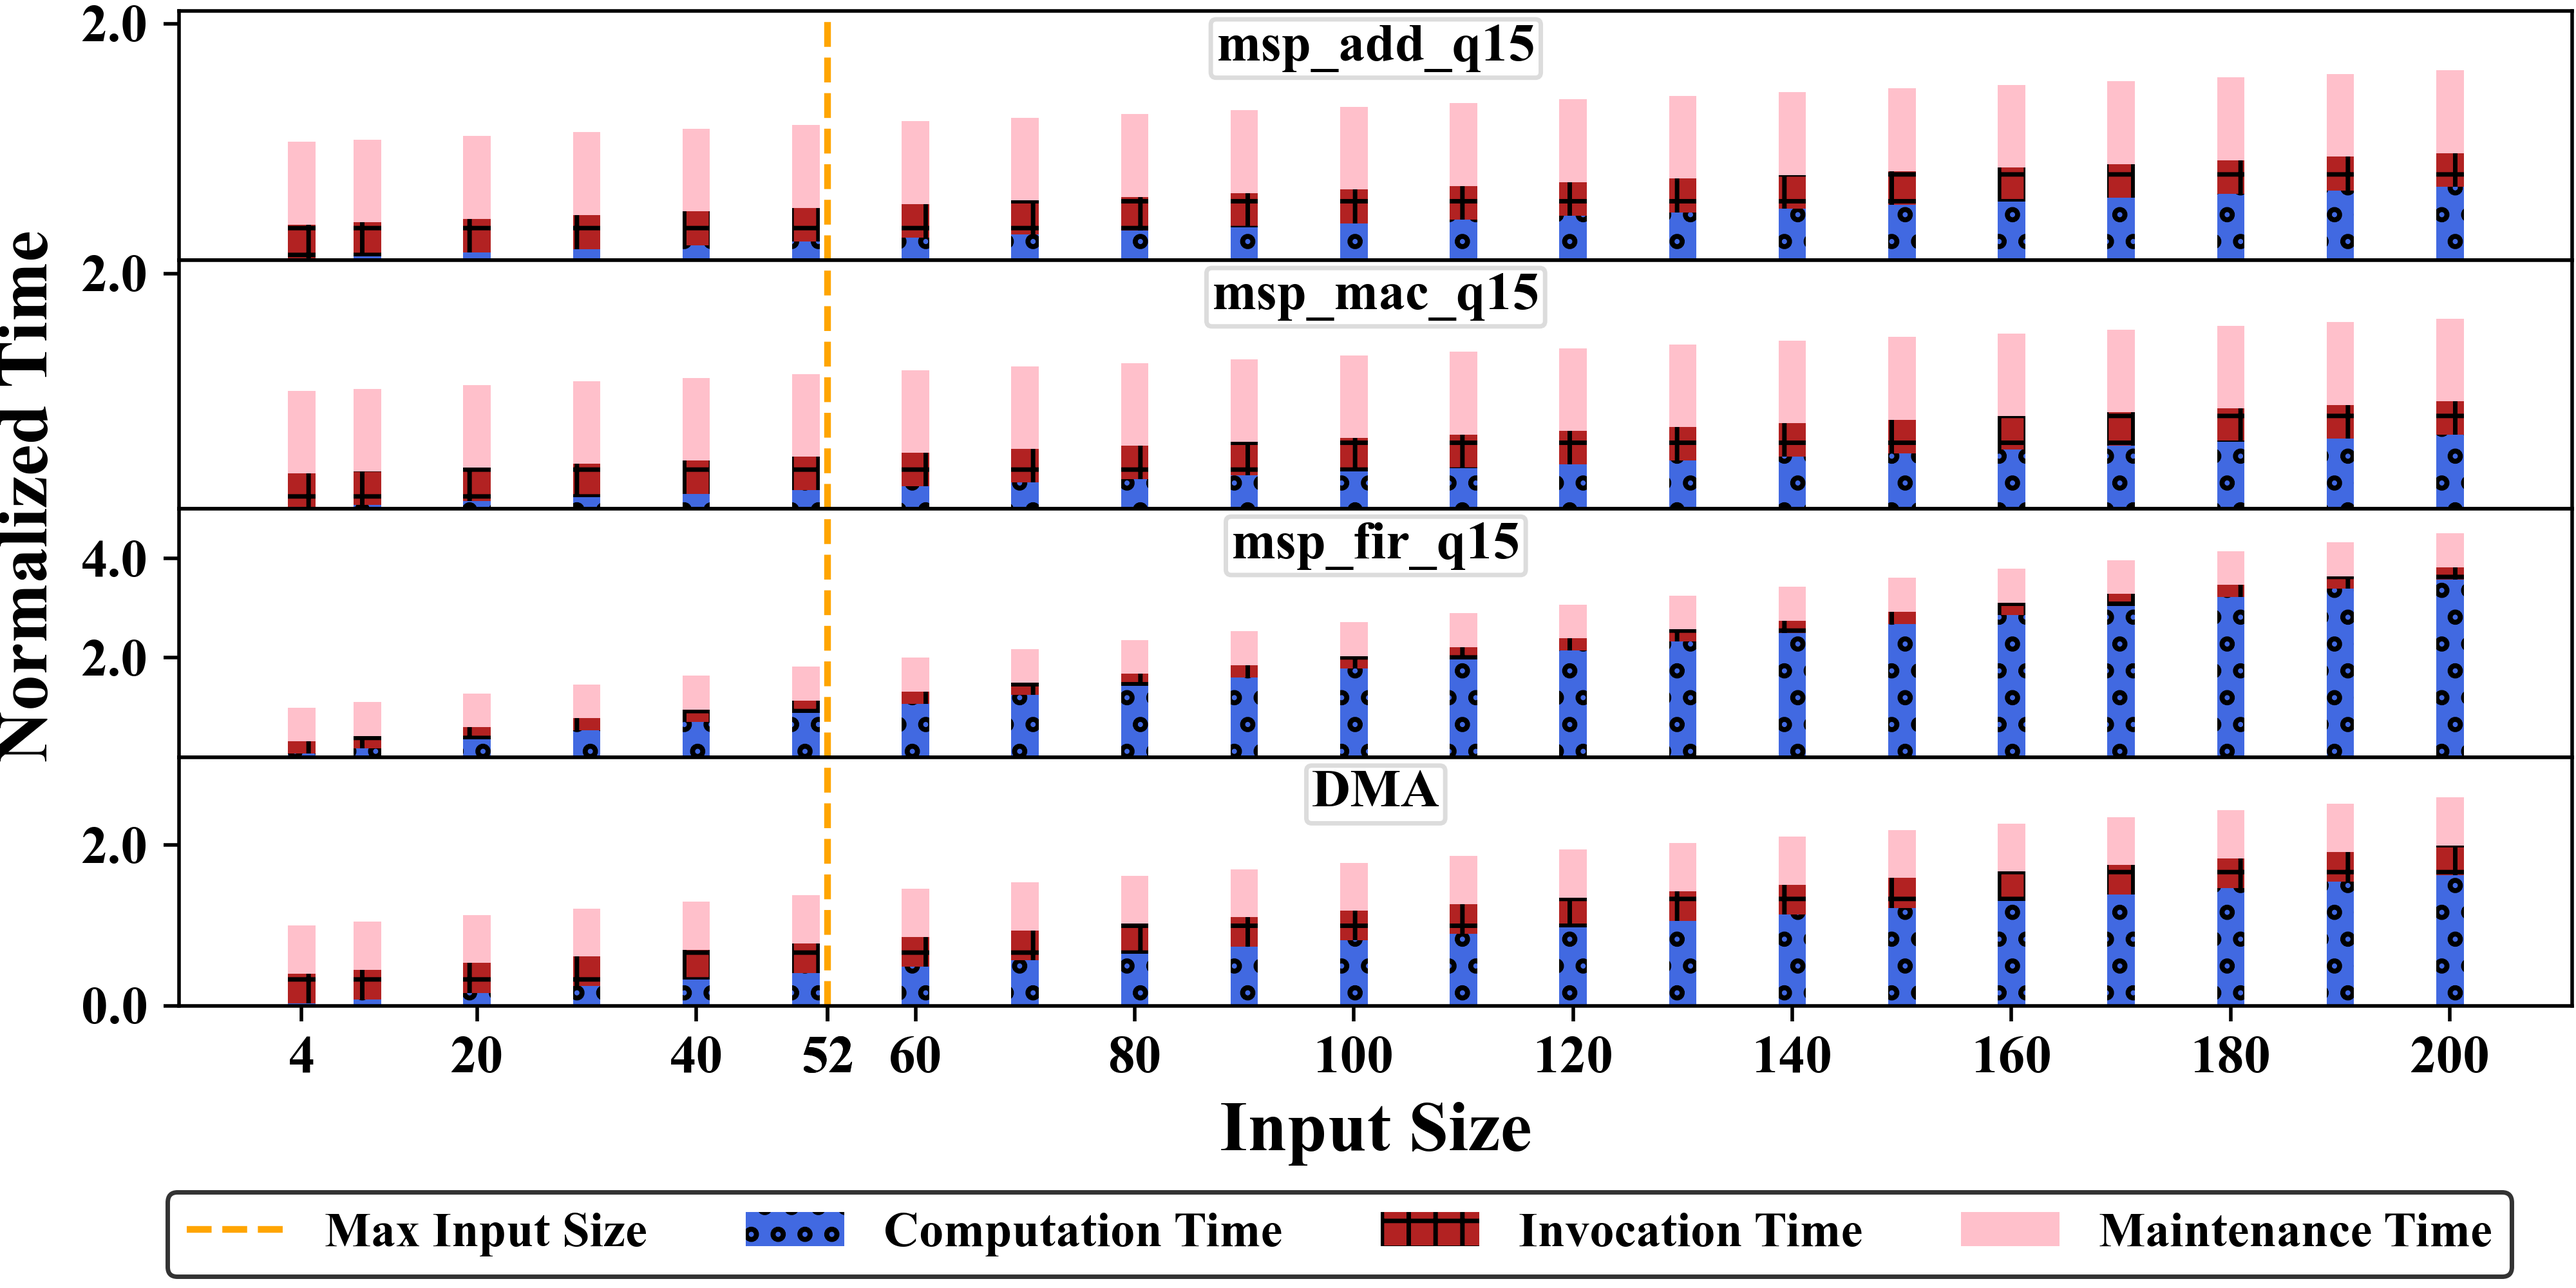
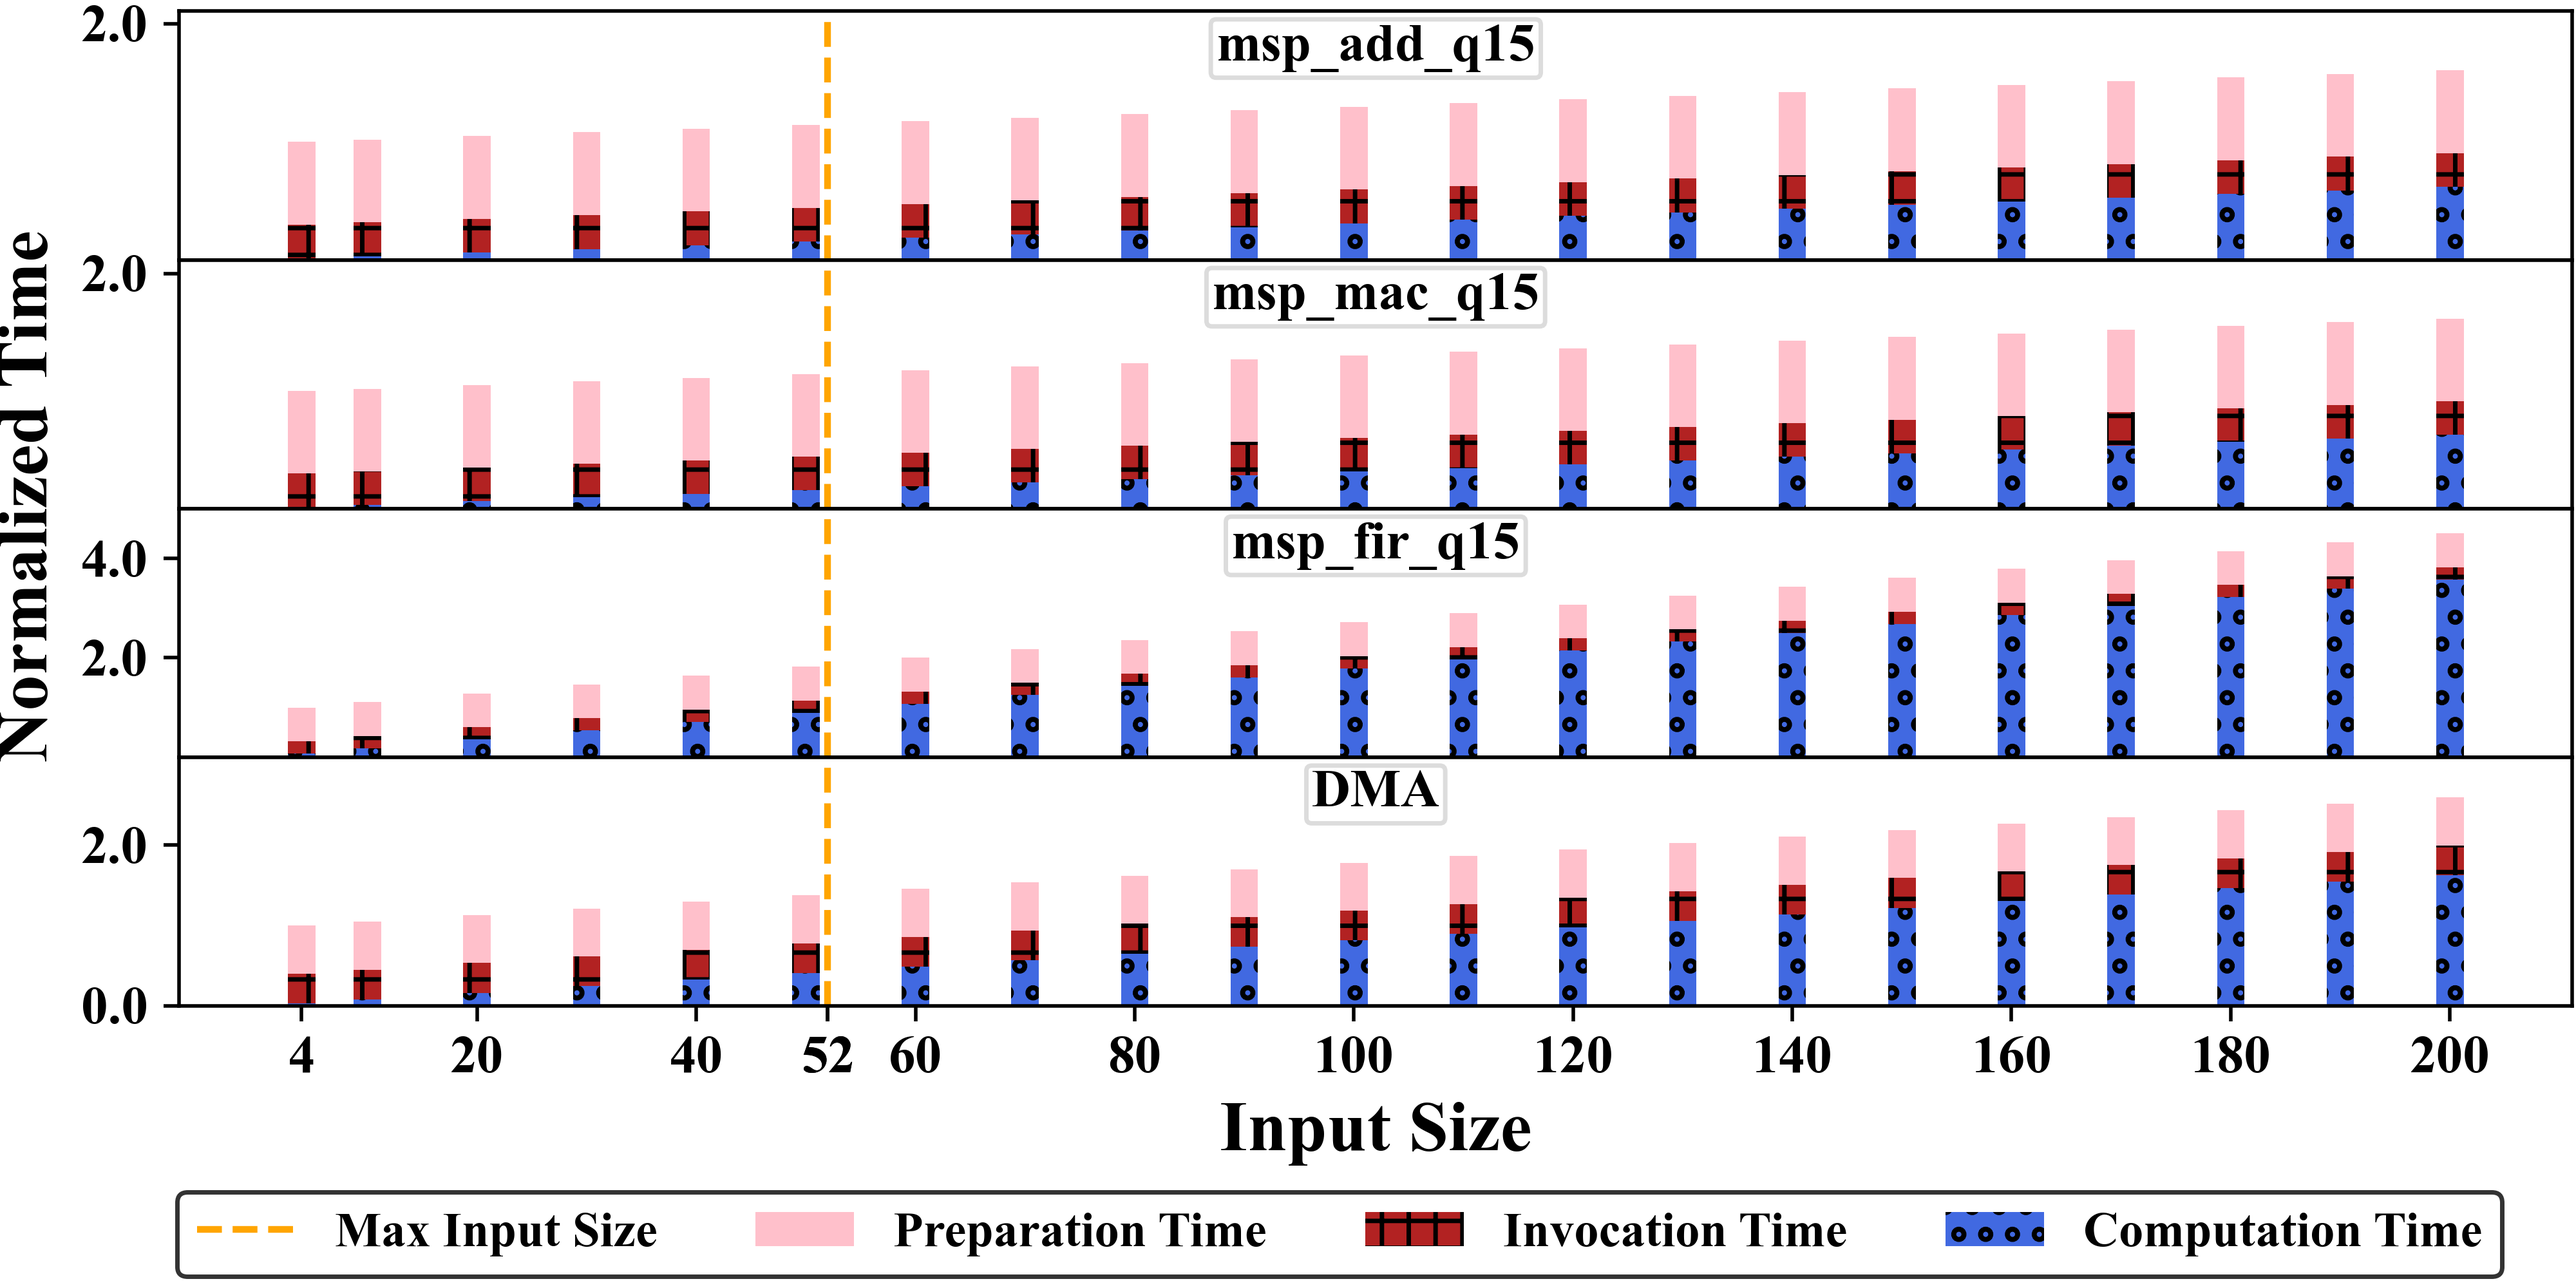
update figiure

diff --git a/apps/lea_op_bench/logs/plot.py b/apps/lea_op_bench/logs/plot.py
@@ -89,11 +89,11 @@ for i, (key, values) in enumerate(log_data.items()):
     if key == 'DMA':
         st_time = 'Invocation Time'
         core_label = 'Computation Time'
-        total_label = 'Maintenance Time'
+        total_label = 'Preparation Time'
 
-    axes[i].bar(sizes, real_norm_core_times, bar_width, label=core_label, color='royalblue', hatch='oo')
-    axes[i].bar(sizes, constant, bar_width, label=st_time, bottom=real_norm_core_times, color='firebrick', hatch='++')
-    axes[i].bar(sizes, norm_setup_times, bar_width, bottom=norm_core_times, label=total_label, color='pink')
+    bars1 = axes[i].bar(sizes, real_norm_core_times, bar_width, label=core_label, color='royalblue', hatch='oo')
+    bars2 = axes[i].bar(sizes, constant, bar_width, label=st_time, bottom=real_norm_core_times, color='firebrick', hatch='++')
+    bars3 = axes[i].bar(sizes, norm_setup_times, bar_width, bottom=norm_core_times, label=total_label, color='pink')
 
     axes[i].yaxis.set_major_formatter(ticker.FormatStrFormatter('%.1f'))
     axes[i].yaxis.set_major_locator(ticker.MaxNLocator(integer=True))
@@ -134,7 +134,7 @@ for i, (key, values) in enumerate(log_data.items()):
 
         yticks = axes[i].yaxis.get_major_ticks()
         disable_tick(yticks[0])
-        axes[i].axvline(x=52, color='orange', linestyle='--')
+        lines = axes[i].axvline(x=52, color='orange', linestyle='--')
     else:
         axes[i].set_xlabel('Input Size')
 
@@ -154,7 +154,7 @@ for i, (key, values) in enumerate(log_data.items()):
         current_ticks = axes[i].get_xticks()
         new_ticks = list(current_ticks) + [52]  # Add a new tick at 2.5
         axes[i].set_xticks(new_ticks)
-        axes[i].axvline(x=52, color='orange', linestyle='--', label='Max Input Size')
+        lines = axes[i].axvline(x=52, color='orange', linestyle='--', label='Max Input Size')
 
     axes[i].text(0.5, 0.85, key, ha='center', va='center', transform=axes[i].transAxes, 
         fontsize=12, bbox=dict(facecolor='white', edgecolor='gainsboro', boxstyle='round,pad=0.1'))
@@ -162,6 +162,7 @@ for i, (key, values) in enumerate(log_data.items()):
     axes[i].tick_params(axis='y', labelsize=12)
 
 fig.legend(
+    handles=[lines, bars3, bars2, bars1],
     loc='lower center', ncol=4,
     fontsize=11, bbox_to_anchor=(0.52, -0.01),
     edgecolor='black'
